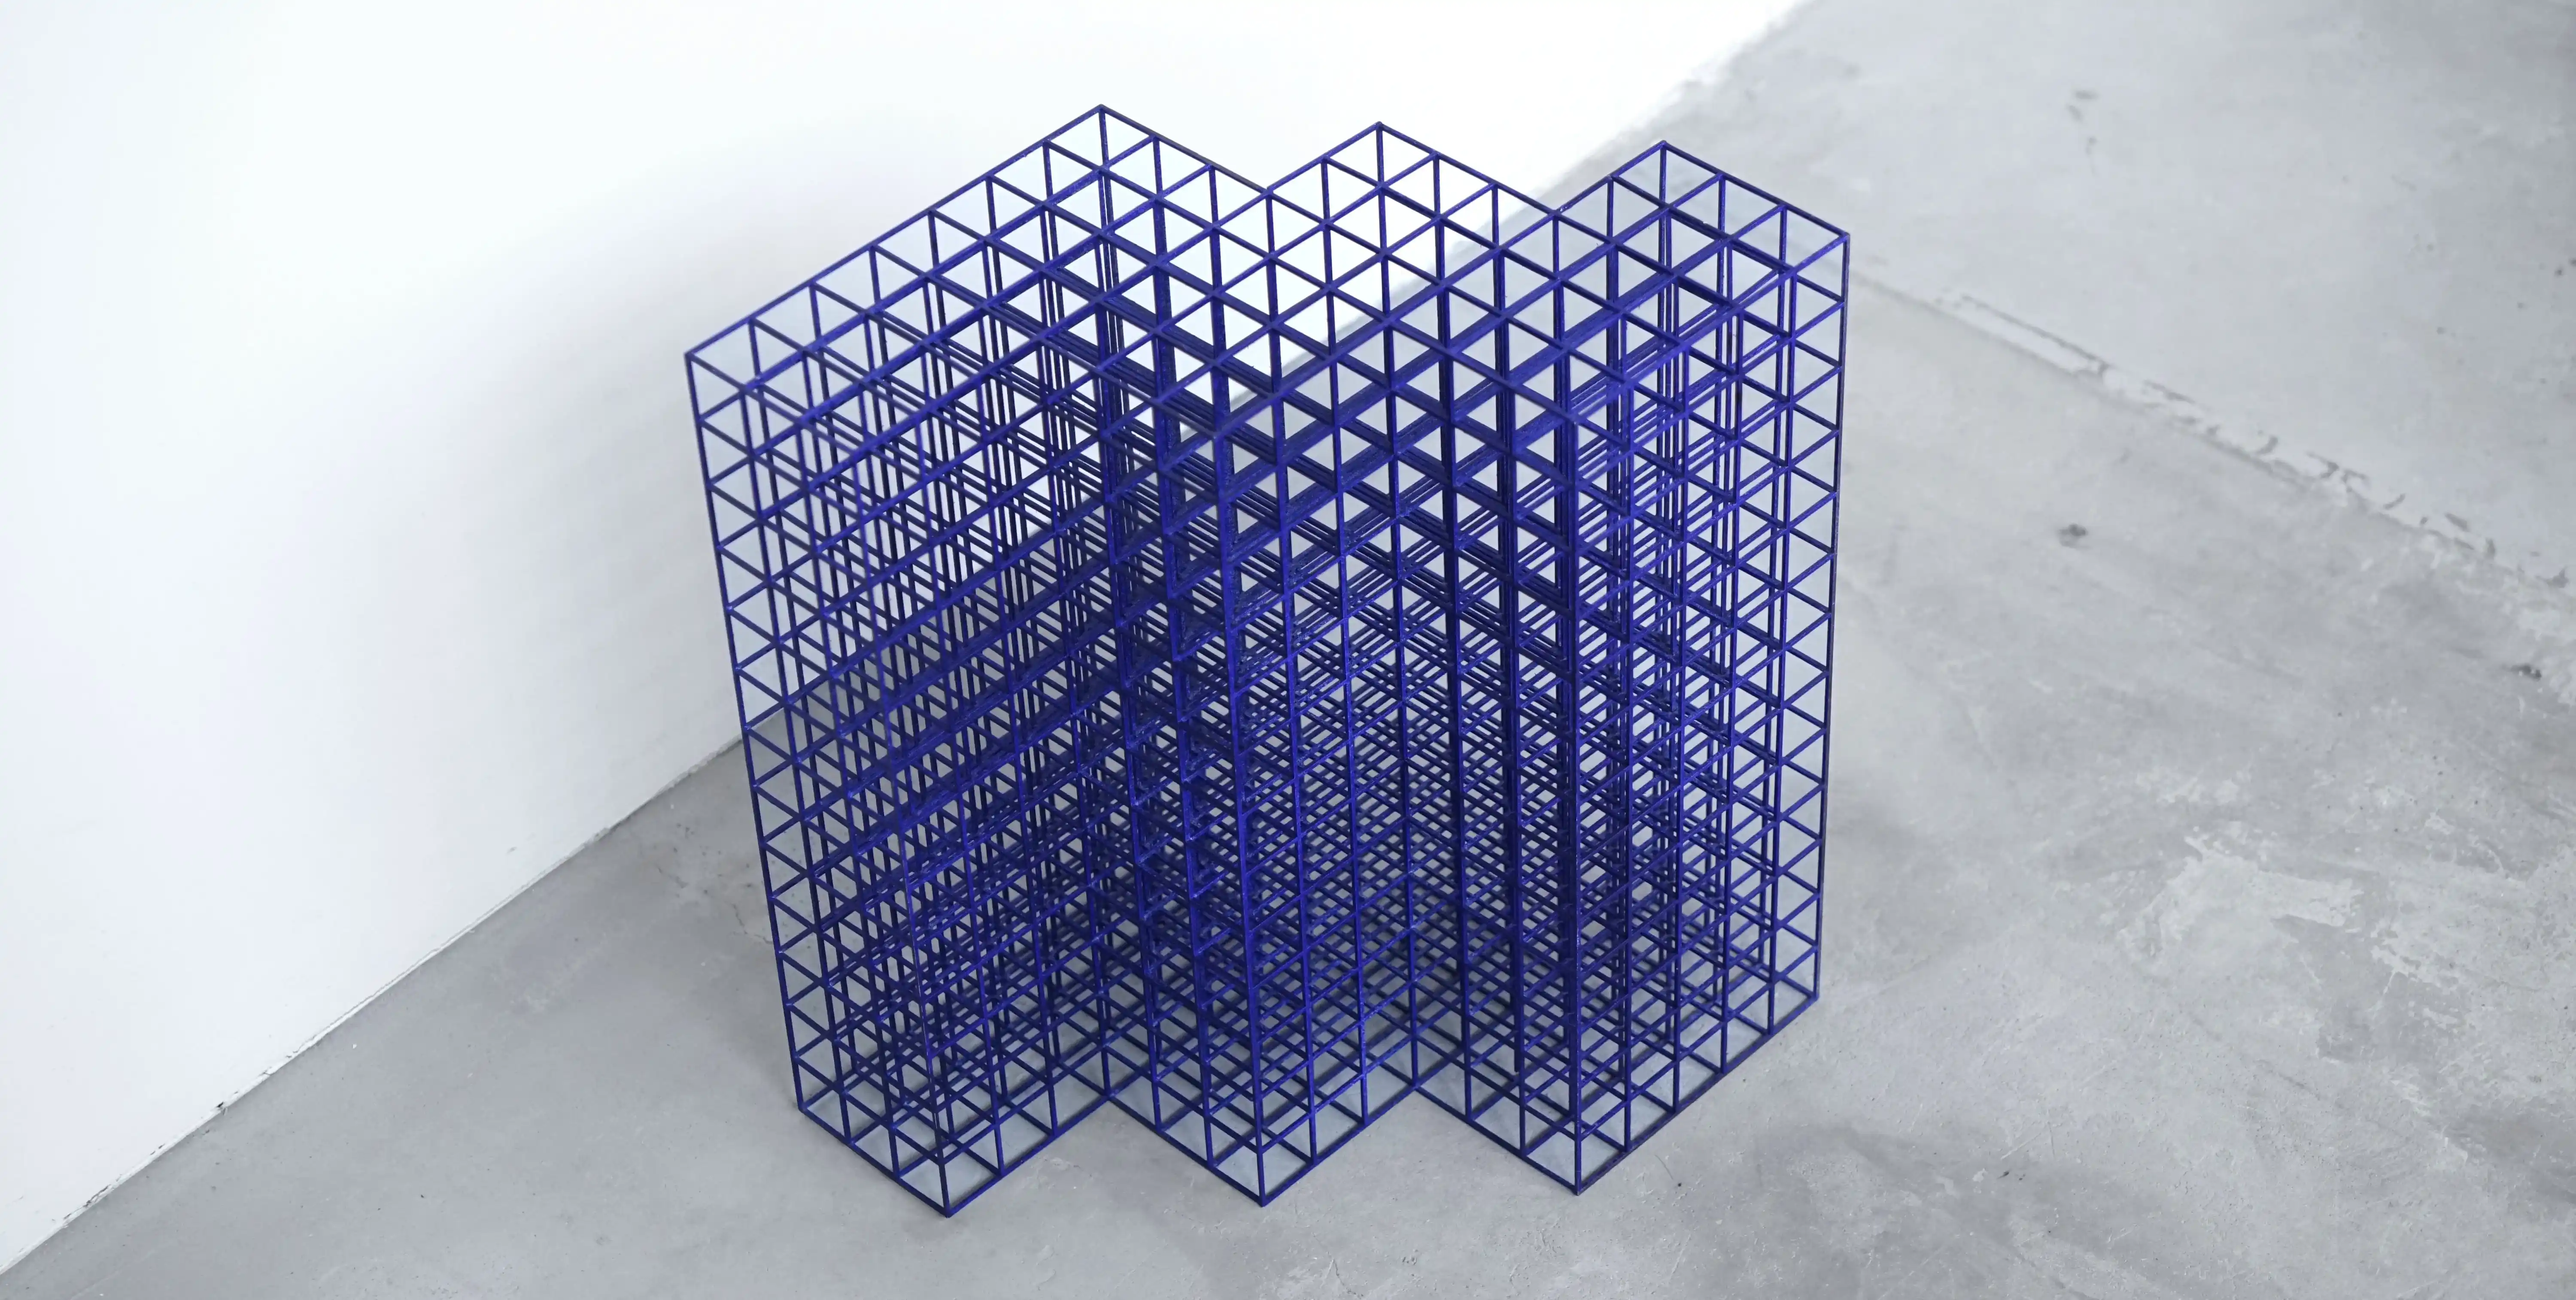
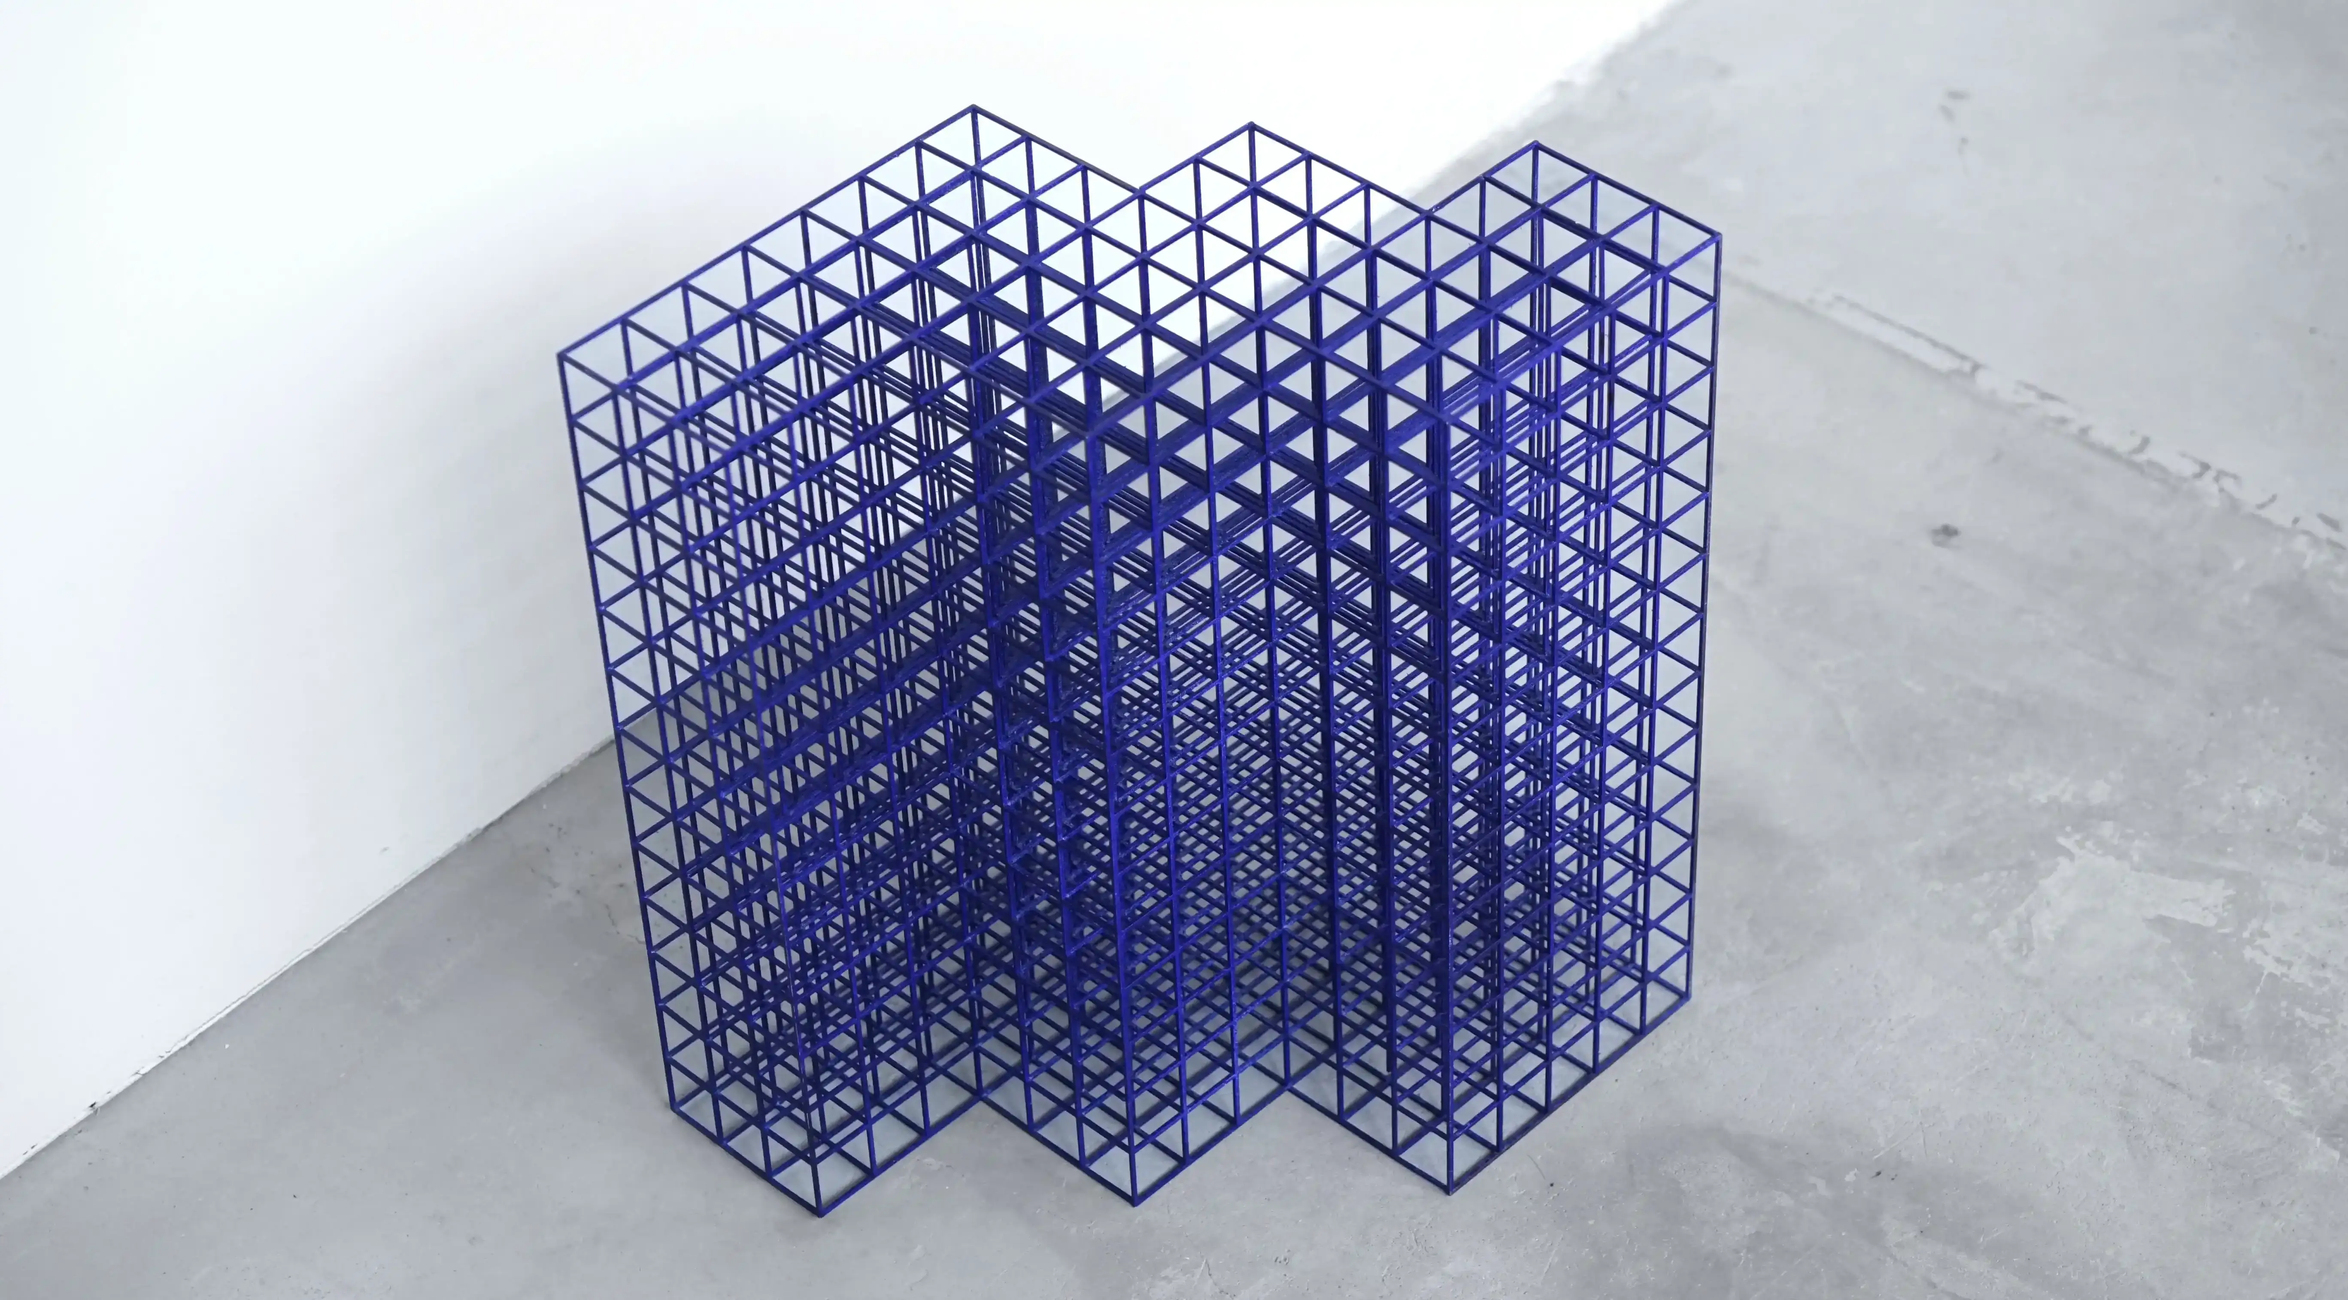
hide shop

diff --git a/shop.html b/shop.html
@@ -57,36 +57,8 @@
                                 <h3>${product.name}</h3>
                                  <p>${product.price}</p>
                              ${linkEnd}
-                             <button class="buy-button" data-product-id="${product.id}">Buy</button>
                          `;
                          topImagesContainer.appendChild(productItem);
-                     });
- 
-                     document.querySelectorAll('.buy-button').forEach(button => {
-                         button.addEventListener('click', (event) => {
-                             const productId = event.target.dataset.productId;
-                             const stripe = Stripe('pk_test_51PLa3DJIeY9a2L7s20L3b234n0Y3b234n0Y3b234n0Y3b234n0Y3b234n0Y3b234n0Y3b234n0Y3b234n0Y3b234n0Y3b234n0Y3b234n'); // Replace with your actual publishable key
- 
-                             fetch('/create-checkout-session', {
-                                 method: 'POST',
-                                 headers: {
-                                     'Content-Type': 'application/json',
-                                 },
-                                 body: JSON.stringify({ productId: productId }),
-                             })
-                             .then(response => response.json())
-                             .then(session => {
-                                 return stripe.redirectToCheckout({ sessionId: session.id });
-                             })
-                             .then(result => {
-                                 if (result.error) {
-                                     alert(result.error.message);
-                                 }
-                             })
-                             .catch(error => {
-                                 console.error('Error:', error);
-                             });
-                         });
                      });
                 })
                 .catch(error => {

diff --git a/let-a-colored-paper-swim-in-clouds.html b/let-a-colored-paper-swim-in-clouds.html
@@ -45,7 +45,6 @@
                 <a href="index.html?filter=light" data-filter="light">LIGHT</a>
                 <a href="index.html?filter=other" data-filter="other">OTHER</a>
                 <a href="bio.html">BIO</a>
-                <a href="shop.html">SHOP</a>
             </div>
         </nav>
     </div>
@@ -55,11 +54,12 @@
             <br>
             <p>2025</p>
             <p>Solo exhibition at Moro Craft</p>
-            <p>I developed “Transfer E a piece I created in 2019, for a solo exhibition at Moro Craft.</p>
+            <p>I developed “Transfer”, pieces I created in 2019, for a solo exhibition at Moro Craft.</p>
             <p>I choose colored paper with a certain intuitive image in mind and create a mold, imagining what shape it will take. The color of papers transfer to cement, and also the moisture of cement distort the shape of mold.</p>
             <p>From the time I pour cement onto the colored paper until it hardens, I cannot see what is happening inside.The transition that was in my imagination overlaps with the transition that is actually woven into the material. And the transition you feel when you see it.</p>
             <p>Colors that cannot be measured and that you perceive in the midst of real duration do not have names. Even the form as stagnation for a short time of its duration. Touch it with your hand. The present we are in is not an abstract point on a line, but an indivisible overlap of its touch, its immediate sensations, and its imagined (or past) duration. Let us assume that.</p>
             <br>
+        
             <p>Material : White cement, Colored paper</p>
             <p>Size : Variable</p>
         </div>

diff --git a/index.html b/index.html
@@ -50,7 +50,6 @@
                 <a href="#" data-filter="light">LIGHT</a>
                 <a href="#" data-filter="other">OTHER</a>
                 <a href="bio.html">BIO</a>
-                <a href="shop.html">SHOP</a>
             </div>
             <div class="mobile-work-links">
                 <a href="let-a-colored-paper-swim-in-clouds.html" data-work="LCSC">LCSC</a>
@@ -83,7 +82,7 @@
                 <img src="images/mono/5.Memento_top_mono_result_result.webp" data-color-src="images/top/5.Memento_top_result_result.webp" alt="Memento">
             </a>
             <a href="liminal-objects.html" data-category="other">
-                <img src="images/mono/6.Liminal Objects_top_mono_result_result.webp" data-color-src="images/top/6.Liminal Objects_top_result_result.webp" alt="Liminal Objects">
+                <img src="images/mono/6.Liminal Objects_top_mono_result.webp" data-color-src="images/top/6.Liminal Objects_top_result_result.webp" alt="Liminal Objects">
             </a>
             <a href="liminal-lamp.html" data-category="lighting">
                 <img src="images/mono/7.Liminal Lamp_top_mono_result_result.webp" data-color-src="images/top/7.Liminal Lamp_top_result_result.webp" alt="Liminal Lamp">

diff --git a/style.css b/style.css
@@ -12,9 +12,6 @@ a {
     text-decoration: none;
 }
 
-a:hover {
-    text-decoration: underline;
-}
 
 .sidebar {
     position: fixed;
@@ -44,6 +41,28 @@ a:hover {
     color: inherit;
     display: block;
     line-height: 1.03;
+    position: relative;
+    width: -moz-fit-content;
+    width: fit-content;
+}
+
+.sidebar nav a:hover {
+    text-decoration: none;
+}
+
+.sidebar nav a::after {
+    content: '';
+    position: absolute;
+    width: 100%;
+    height: 2px;
+    bottom: 0;
+    left: 0;
+    background-color: #000;
+    visibility: hidden;
+}
+
+.sidebar nav a:hover::after {
+    visibility: visible;
 }
 
 .main-nav {

diff --git a/bio.html b/bio.html
@@ -31,7 +31,6 @@
                 <a href="index.html?filter=light" data-filter="light">LIGHT</a>
                 <a href="index.html?filter=other" data-filter="other">OTHER</a>
                 <a href="bio.html">BIO</a>
-                <a href="shop.html">SHOP</a>
             </div>
         </nav>
     </div>

diff --git a/liminal-lamp.html b/liminal-lamp.html
@@ -49,7 +49,6 @@
                 <a href="index.html?filter=light" data-filter="light">LIGHT</a>
                 <a href="index.html?filter=other" data-filter="other">OTHER</a>
                 <a href="bio.html">BIO</a>
-                <a href="shop.html">SHOP</a>
             </div>
         </nav>
     </div>

diff --git a/liminal-objects.html b/liminal-objects.html
@@ -49,7 +49,6 @@
                 <a href="index.html?filter=light" data-filter="light">LIGHT</a>
                 <a href="index.html?filter=other" data-filter="other">OTHER</a>
                 <a href="bio.html">BIO</a>
-                <a href="shop.html">SHOP</a>
             </div>
         </nav>
     </div>

diff --git a/lti.html b/lti.html
@@ -50,7 +50,6 @@
                 <a href="index.html?filter=light" data-filter="light">LIGHT</a>
                 <a href="index.html?filter=other" data-filter="other">OTHER</a>
                 <a href="bio.html">BIO</a>
-                <a href="shop.html">SHOP</a>
             </div>
         </nav>
     </div>

diff --git a/memento.html b/memento.html
@@ -50,7 +50,6 @@
                 <a href="index.html?filter=light" data-filter="light">LIGHT</a>
                 <a href="index.html?filter=other" data-filter="other">OTHER</a>
                 <a href="bio.html">BIO</a>
-                <a href="shop.html">SHOP</a>
             </div>
         </nav>
     </div>

diff --git a/ori.html b/ori.html
@@ -49,7 +49,6 @@
                 <a href="index.html?filter=light" data-filter="light">LIGHT</a>
                 <a href="index.html?filter=other" data-filter="other">OTHER</a>
                 <a href="bio.html">BIO</a>
-                <a href="shop.html">SHOP</a>
             </div>
         </nav>
     </div>

diff --git a/transfer.html b/transfer.html
@@ -45,7 +45,6 @@
                 <a href="index.html?filter=light" data-filter="light">LIGHT</a>
                 <a href="index.html?filter=other" data-filter="other">OTHER</a>
                 <a href="bio.html">BIO</a>
-                <a href="shop.html">SHOP</a>
             </div>
         </nav>
     </div>

diff --git a/vnsh.html b/vnsh.html
@@ -49,7 +49,6 @@
                 <a href="index.html?filter=light" data-filter="light">LIGHT</a>
                 <a href="index.html?filter=other" data-filter="other">OTHER</a>
                 <a href="bio.html">BIO</a>
-                <a href="shop.html">SHOP</a>
             </div>
         </nav>
     </div>
